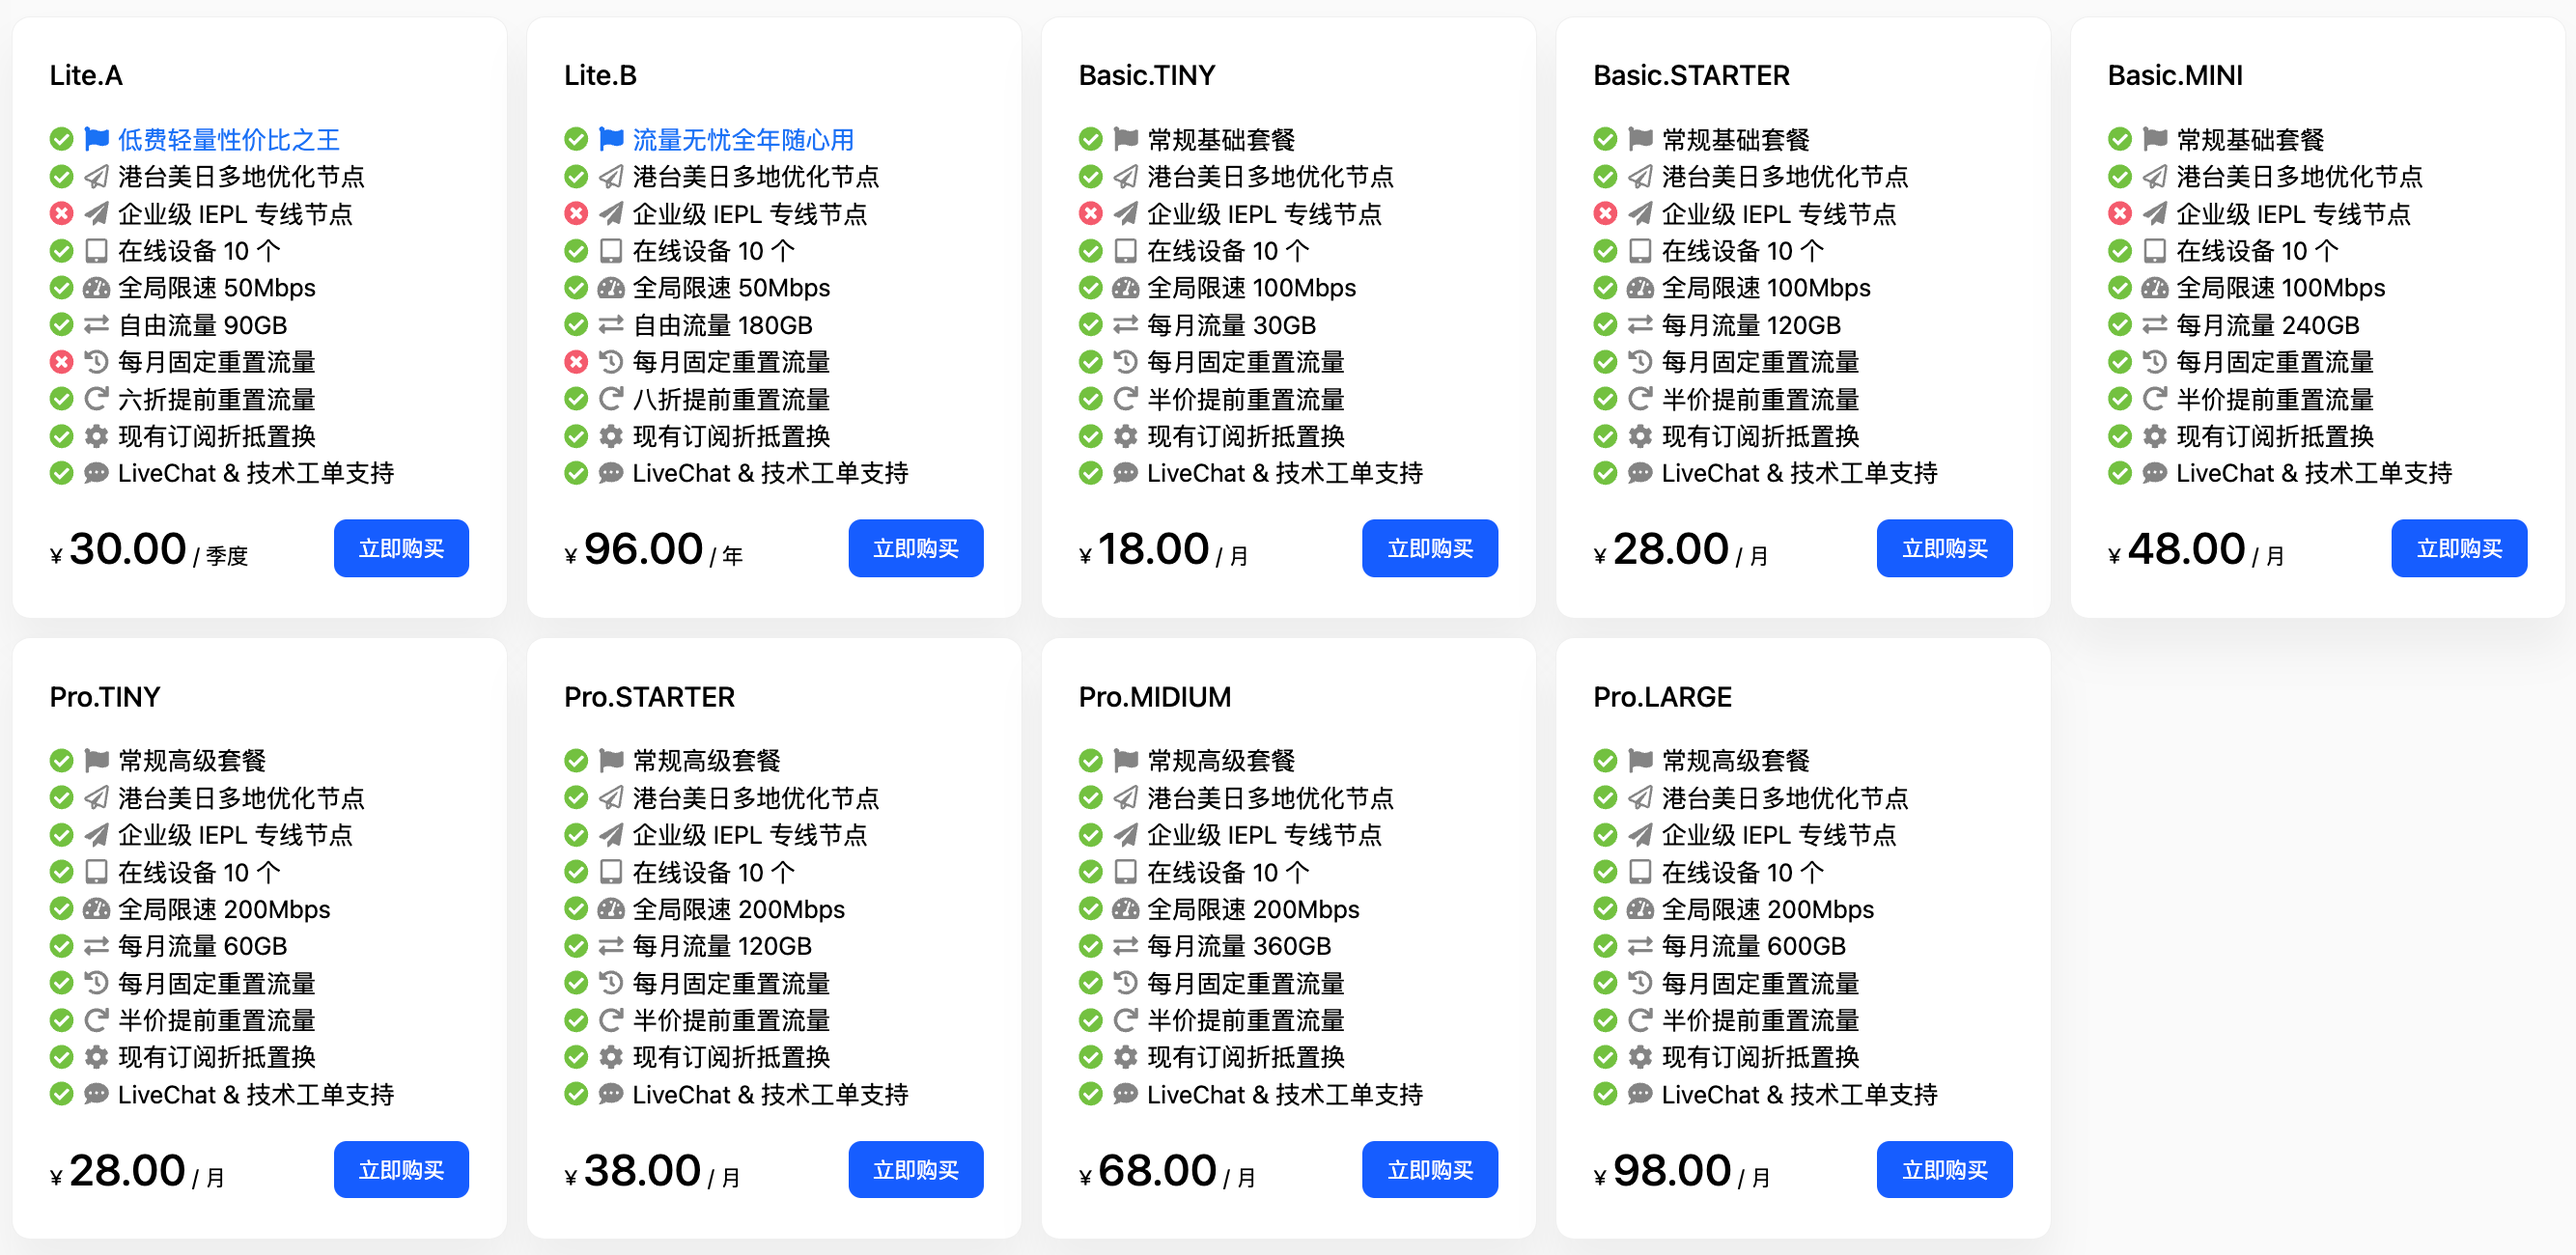
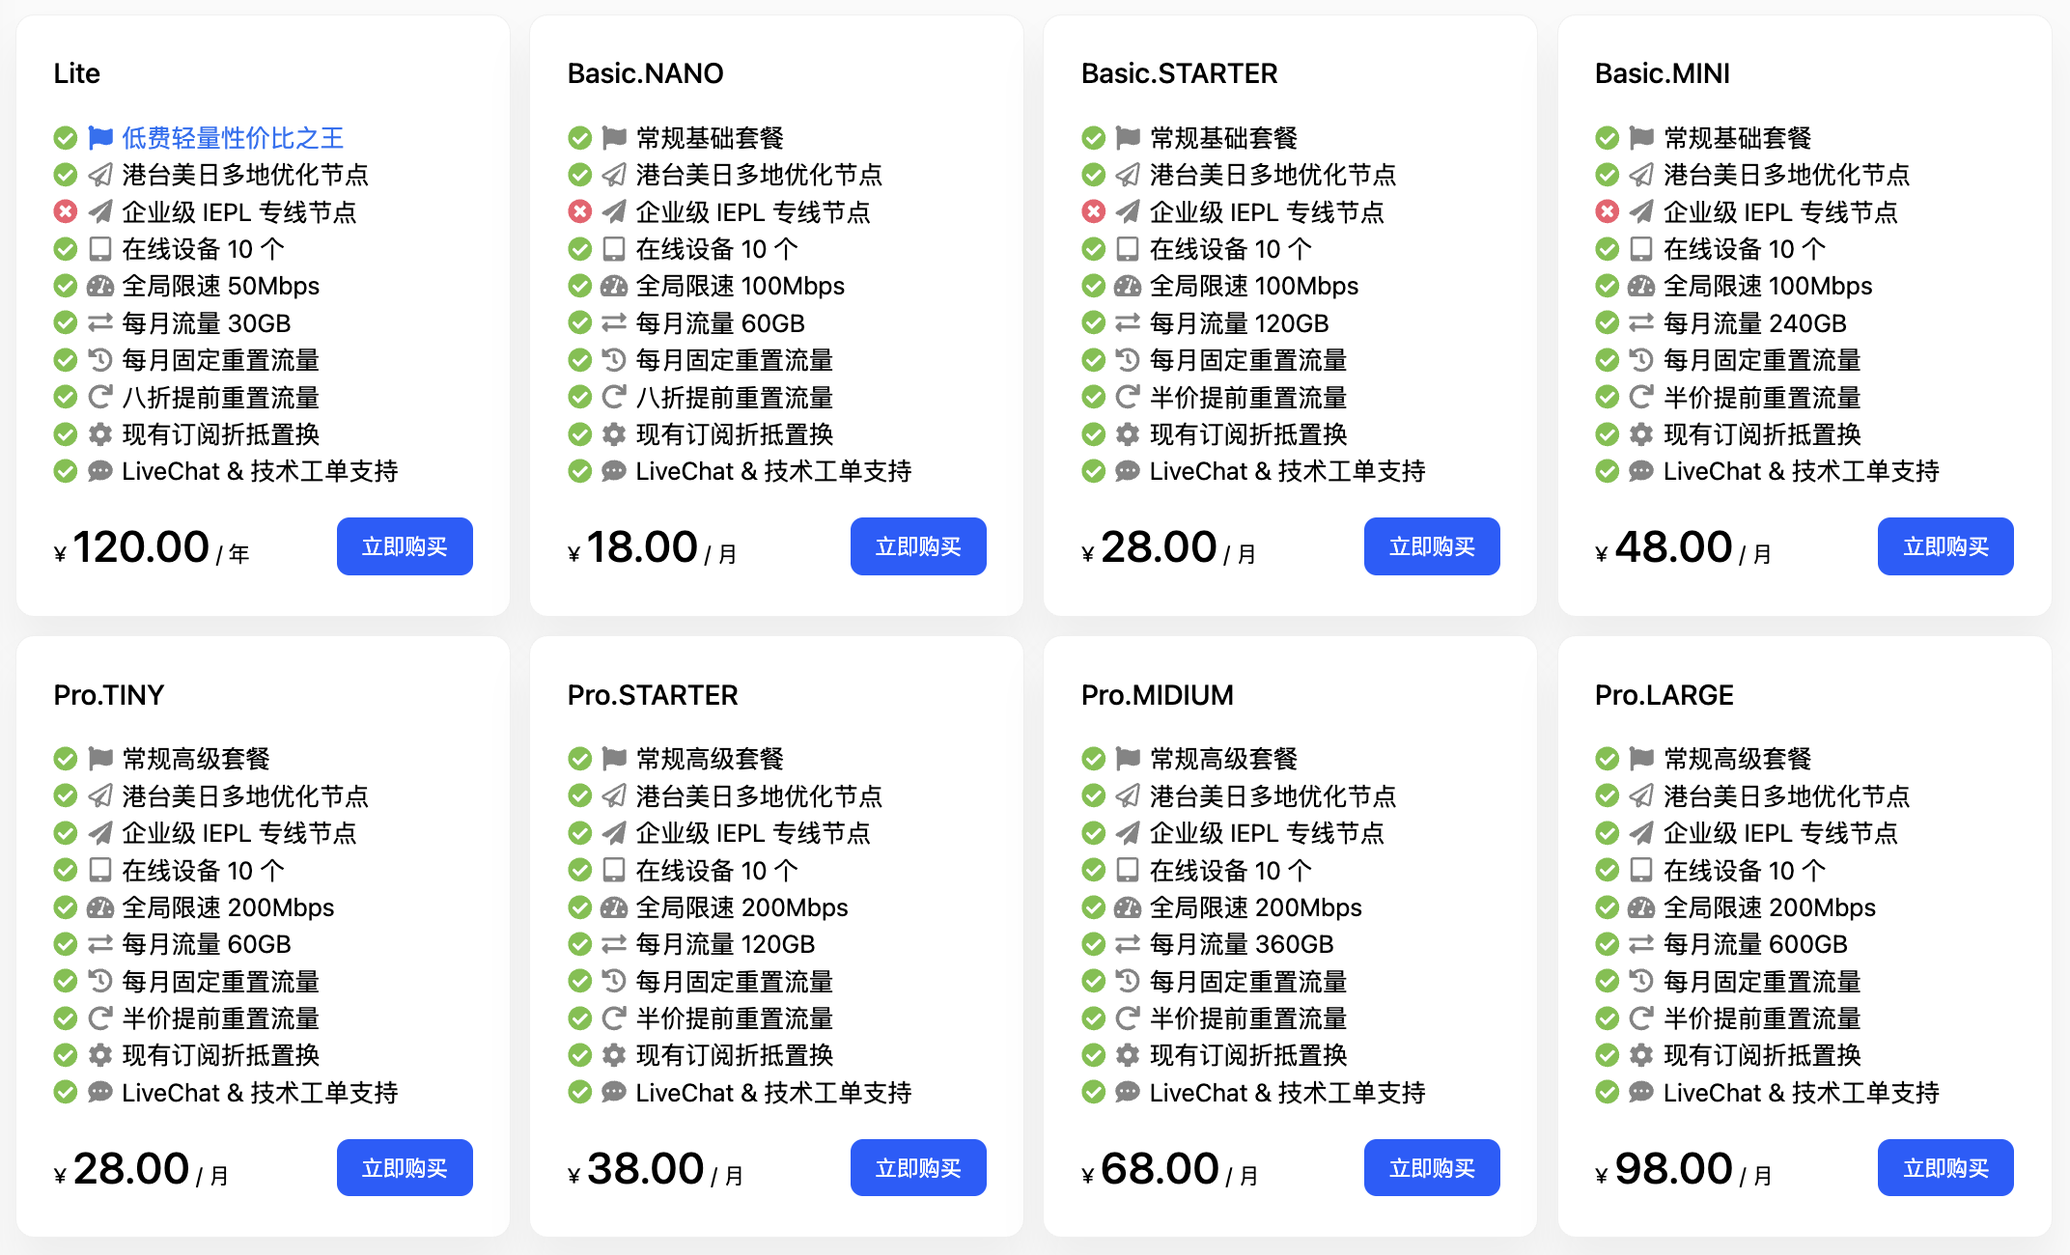
Update

diff --git a/_layouts/default.html b/_layouts/default.html
@@ -33,4 +33,23 @@
       </footer>
     </main>
 </body>
+
+<!-- Meta Pixel Code -->
+<script>
+!function(f,b,e,v,n,t,s)
+{if(f.fbq)return;n=f.fbq=function(){n.callMethod?
+n.callMethod.apply(n,arguments):n.queue.push(arguments)};
+if(!f._fbq)f._fbq=n;n.push=n;n.loaded=!0;n.version='2.0';
+n.queue=[];t=b.createElement(e);t.async=!0;
+t.src=v;s=b.getElementsByTagName(e)[0];
+s.parentNode.insertBefore(t,s)}(window, document,'script',
+'https://connect.facebook.net/en_US/fbevents.js');
+fbq('init', '1366378524319857');
+fbq('track', 'PageView');
+</script>
+<noscript><img height="1" width="1" style="display:none"
+src="https://www.facebook.com/tr?id=1366378524319857&ev=PageView&noscript=1"
+/></noscript>
+<!-- End Meta Pixel Code -->
+
 </html>

diff --git a/README.md b/README.md
@@ -6,26 +6,33 @@
 注册链接：[https://traveler.rapps.click/#/login?code=cn](https://traveler.rapps.click/#/login?code=cn)
 
 ## 节点介绍
+
 ### 地区分布
+
 **Traveler** 上线的海外节点均为高质量独享 VPS，无大量部署低成本 `AWS`、`Azure`、`GCP` 薅的羊毛机，国内节点均为高优先级出口独服，`广东移动`、`上海电信 CN2` 和 `上海联通 AS4837`，优先选择有技术沉淀和口碑积累的老牌服务商，确保上游安全稳定，质量优秀，长期供应，具备良好的稳定性和可持续发展性。
 考虑国内出海需求，**Traveler** 优先选择大陆优化、地理位置临近节点，在各区域节点数量分配上也有考虑，总体来说，`香港` 节点最多，`台湾` 其次，`日`、`韩`、`新`、`美` 较少，但麻雀虽小，五脏俱全，各节点均有其价值，亚洲临近节点主打 `延迟低`，适合游戏、即时通讯类软件，美国西岸节点虽略有延迟，但带宽大、流量足，适合刷视频和下载，实际体验也是很不错的。为避免扎堆拥挤，建议不要全时段挂着港台节点，高峰时期选择人少的节点亦有奇效。此外，高等级的用户建议使用高等级的节点，高等级节点质量更高，相对使用人数更少，使用体验更流畅。
 
 ![1](https://travelercn.github.io/image/1.png)
 
 ### 加密协议
+
 为兼顾传输的速度、稳定性、客户端的易用性与社区建设的持续性，**Traveler** 目前以 `Trojan`、`Vmess`、`Vless + Reality` 协议为主，分别适配不同线路对接。根据用户需求和网络环境，也可定制 `Shadowsocks`、`Hysteria` 等各类网络工具。
 
 ### Direct 节点
+
 从大陆直通境外的节点，一般为自带三网优化、大陆友好的国际线路，比如美国 `CN2 GIA`，日本 `BBTEC`，香港 `CN2` 等，一般原生 IP 不带流媒体解锁，因此一般是路由到其他节点或临近区域住宅 IP 解锁，尽量做到全节点支持流媒体。此类节点通常选择 `Trojan` 或 `Vless + Reality` 等目前最新抗墙的加密协议，购买 `Lite`、`Basic`、`Pro` 系列的用户均有配置到 `Direct` 节点。
 
 ### Relay 节点
+
 大部份为 `国内隧道中转` 节点，少部份为 `国际隧道中转` 节点，国内中转入口包括但不限于 `广东移动`、`上海电信 CN2` 和 `上海联通 AS4837` 等，对于上外网不友好的运营商，通过国内服务器的中转，能够大幅提升与境外节点的连通性和速度，一般来说，香港、台湾节点，会通过华南区域来中转，日本、韩国节点，会通过华东区域来中转，美国节点，可能通过电信 `CN2` 或中美专线 `CN2 GIA` 的节点来中转。所有通过中转到达的落地节点，都会优先选择解锁该国 / 区域流媒体的出口 IP，因此一般都能支持 `Netflix`、`ChatGPT` 等主流需求。此类节点通常选择安全性高，带 `TLS` 安全加密的协议，以保护国内到海外这一段的连接，有效解决 `TCP 阻断` 问题，购买 `Lite`、`Basic`、`Pro` 系列的用户均有配置到 `Relay` 节点。
 
 ### IEPL 节点
+
 为企业级专线，基于从国内直通海外的不过墙特性，这类节点没有被 GFW 探测的问题，可以解放所有的加密协议，追求 `最高速度`、`最高稳定性` 和 `最低延迟`，最适合 `游戏` 和 `即时通讯` 使用，该机场提供总带宽为 `G 口` 的专线大口子，让个人用户可以享有更优的网络资源，属于稀有线路，因此只有最高套餐 `Pro` 系列配置 `IEPL` 节点。
 
 
 ## 机场介绍
+
 1. 运营经验七年有余，对国内网络环境波动具有一定的应对能力
 2. 覆盖主流地区，提供 `HK`、`TW`、`JP`、`KR`、`SG`、`US` 等多地区的线路服务
 3. 线路数量真实，每一条线路均配备一台服务器，中转及 IEPL 节点更配备 2~3 台服务器进行线路对接及出口负载平衡
@@ -37,18 +44,23 @@
 ![2](https://travelercn.github.io/image/2.png)
 
 ### 试用
+
 提供 `12` 小时的试用，注册后自动获取，为了避免后续问题，请一定要先试用。
 
 ### Lite 系列
-自由套餐，季付或年付，随便用，偶尔用用，无流量清零焦虑，`T1` 节点（约 10-12 个）
+
+入门套餐，月均 `10` 元起，有国内中转，没专线，按月重置，30G 流量，`T1` 节点（约 10-12 个）
 
 ### Basic 系列
+
 基础套餐，`18` 元起，有国内中转，没专线，按月重置，最高 240G 流量，`T1` 节点（约 10-12 个）
 
 ### Pro 系列
+
 高级套餐，`28` 元起，有国内中转，有专线，按月重置，最高 600G 流量，`T1+T2` 节点（约 15-20 个）
 
 ### 定制化需求
+
 若以上订阅规格无法满足，您还可以咨询定制。为保线路和服务质量，我们不做大流量和无限流量，账户数量也有限制，随时封车关闭注册，想体验要快哦！
 
 注册链接：[https://traveler.rapps.click/#/login?code=cn](https://traveler.rapps.click/#/login?code=cn)
@@ -56,17 +68,20 @@
 ## 各套餐渠道优惠码
 
 ### 半年 9 折优惠
-- 优惠代码：`FB2024-6MONTH`
+
+- 优惠代码：`FB2025-6MONTH`
 - 适用套餐：Basic STARTER 以上, Pro STARTER 以上
 - 付款周期：半年付
 
 ### 年付 85 折优惠
-- 优惠代码：`FB2024-12MONTH`
+
+- 优惠代码：`FB2025-12MONTH`
 - 适用套餐：Basic STARTER 以上, Pro STARTER 以上
 - 付款周期：年付
 
 注册链接：[https://traveler.rapps.click/#/login?code=cn](https://traveler.rapps.click/#/login?code=cn)
 
 ---
+
 <font color=red>任何网络中继服务都无法 100% 保证将来提供的服务稳定性，建议新手按月购买，如果用着觉得不错，才考虑更长周期（毕竟更长周期的优惠力度也大嘛！）</font>
 

diff --git a/index.md b/index.md
@@ -6,26 +6,33 @@
 注册链接：[https://traveler.rapps.click/#/login?code=cn](https://traveler.rapps.click/#/login?code=cn)
 
 ## 节点介绍
+
 ### 地区分布
+
 **Traveler** 上线的海外节点均为高质量独享 VPS，无大量部署低成本 **AWS、Azure、GCP** 薅的羊毛机，国内节点均为高优先级出口独服，**广东移动、上海电信 CN2 和上海联通 AS4837**，优先选择有技术沉淀和口碑积累的老牌服务商，确保上游安全稳定，质量优秀，长期供应，具备良好的稳定性和可持续发展性。
 考虑国内出海需求，**Traveler** 优先选择大陆优化、地理位置临近节点，在各区域节点数量分配上也有考虑，总体来说，**香港节点最多，台湾其次，日、韩、新、美较少**，但麻雀虽小，五脏俱全，各节点均有其价值，亚洲临近节点主打 **延迟低**，适合游戏、即时通讯类软件，美国西岸节点虽略有延迟，但带宽大、流量足，适合刷视频和下载，实际体验也是很不错的。为避免扎堆拥挤，建议不要全时段挂着港台节点，高峰时期选择人少的节点亦有奇效。此外，高等级的用户建议使用高等级的节点，高等级节点质量更高，相对使用人数更少，使用体验更流畅。
 
 ![](image/1.png)
 
 ### 加密协议
+
 为兼顾传输的速度、稳定性、客户端的易用性与社区建设的持续性，**Traveler** 目前以 **Trojan、Vmess、Vless + Reality** 协议为主，分别适配不同线路对接。根据用户需求和网络环境，也可定制 **Shadowsocks、Hysteria** 等各类网络工具。
 
 ### Direct 节点
+
 从大陆直通境外的节点，一般为自带三网优化、大陆友好的国际线路，比如 **美国 CN2 GIA，日本 BBTEC，香港 CN2** 等，一般原生 IP 不带流媒体解锁，因此一般是路由到其他节点或临近区域住宅 IP 解锁，尽量做到全节点支持流媒体。此类节点通常选择 **Trojan** 或 **Vless + Reality** 等目前最新抗墙的加密协议，购买 **Lite、Basic、Pro** 系列的用户均有配置到 **Direct 节点**。
 
 ### Relay 节点
+
 大部份为 **国内隧道中转** 节点，少部份为 **国际隧道中转** 节点，国内中转入口包括但不限于 **广东移动、上海电信 CN2 和上海联通 AS4837** 等，对于上外网不友好的运营商，通过国内服务器的中转，能够大幅提升与境外节点的连通性和速度，一般来说，香港、台湾节点，会通过华南区域来中转，日本、韩国节点，会通过华东区域来中转，美国节点，可能通过电信 CN2 或中美专线 CN2 GIA 的节点来中转。所有通过中转到达的落地节点，都会优先选择解锁该国 / 区域流媒体的出口 IP，因此一般都能支持 **Netflix、ChatGPT** 等主流需求。此类节点通常选择安全性高，带 **TLS 安全加密** 的协议，以保护国内到海外这一段的连接，有效解决 **TCP 阻断** 问题，购买 **Lite、Basic、Pro** 系列的用户均有配置到 **Relay 节点**。
 
 ### IEPL 节点
+
 为企业级专线，基于从国内直通海外的不过墙特性，这类节点没有被 GFW 探测的问题，可以解放所有的加密协议，追求 **最高速度、最高稳定性和最低延迟**，最适合 **游戏** 和 **即时通讯** 使用，该机场提供总带宽为 **G 口** 的专线大口子，让个人用户可以享有更优的网络资源，属于稀有线路，因此只有最高套餐 **Pro** 系列配置 **IEPL 节点**。
 
 
 ## 机场介绍
+
 1. 运营经验七年有余，对国内网络环境波动具有一定的应对能力
 2. 覆盖主流地区，提供 **HK、TW、JP、KR、SG、US** 等多地区的线路服务
 3. 线路数量真实，每一条线路均配备一台服务器，中转及 IEPL 节点更配备 2~3 台服务器进行线路对接及出口负载平衡
@@ -37,18 +44,23 @@
 ![](image/2.png)
 
 ### 试用
+
 提供 **12 小时** 的试用，注册后自动获取，为了避免后续问题，请一定要先试用。
 
 ### Lite 系列
-自由套餐，月均 **10** 元起，随便用，偶尔用用，不按月重置，无流量清零焦虑，**T1** 节点（约 10-12 个）
+
+入门套餐，月均 **10** 元起，有国内中转，没专线，按月重置，30G 流量，**T1** 节点（约 10-12 个）
 
 ### Basic 系列
+
 基础套餐，月均 **18** 元起，有国内中转，没专线，按月重置，最高 240G 流量，**T1** 节点（约 10-12 个）
 
 ### Pro 系列
+
 高级套餐，月均 **28** 元起，有国内中转，有专线，按月重置，最高 600G 流量，**T1+T2** 节点（约 15-20 个）
 
 ### 定制化需求
+
 若以上订阅规格无法满足，您还可以咨询定制。为保线路和服务质量，我们不做大流量和无限流量，账户数量也有限制，随时封车关闭注册，想体验要快哦！
 
 注册链接：[https://traveler.rapps.click/#/login?code=cn](https://traveler.rapps.click/#/login?code=cn)
@@ -56,16 +68,19 @@
 ## 各套餐渠道优惠码
 
 ### 半年 9 折优惠
-- 优惠代码：**FB2024-6MONTH**
+
+- 优惠代码：**FB2025-6MONTH**
 - 适用套餐：Basic STARTER 以上, Pro STARTER 以上
 - 付款周期：半年付
 
 ### 年付 85 折优惠
-- 优惠代码：**FB2024-12MONTH**
+
+- 优惠代码：**FB2025-12MONTH**
 - 适用套餐：Basic STARTER 以上, Pro STARTER 以上
 - 付款周期：年付
 
 注册链接：[https://traveler.rapps.click/#/login?code=cn](https://traveler.rapps.click/#/login?code=cn)
 
 ---
+
 <font color=red>任何网络中继服务都无法 100% 保证将来提供的服务稳定性，建议新手按月购买，如果用着觉得不错，才考虑更长周期（毕竟更长周期的优惠力度也大嘛！）</font>
